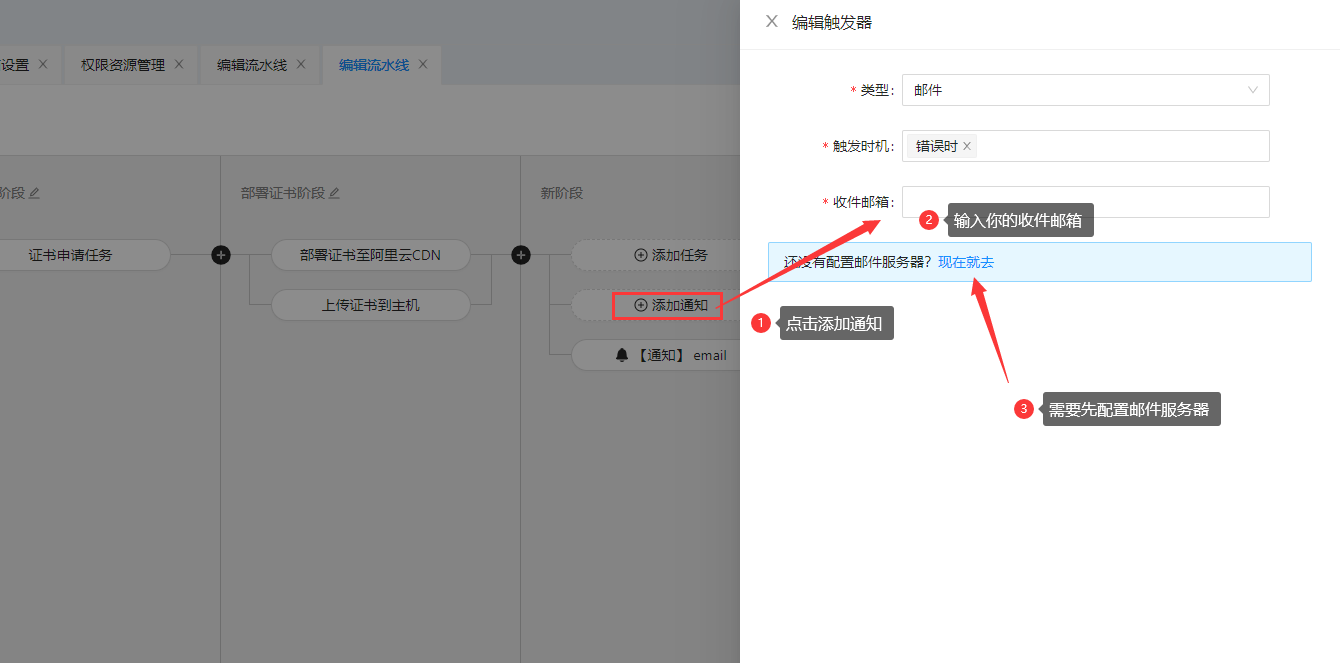
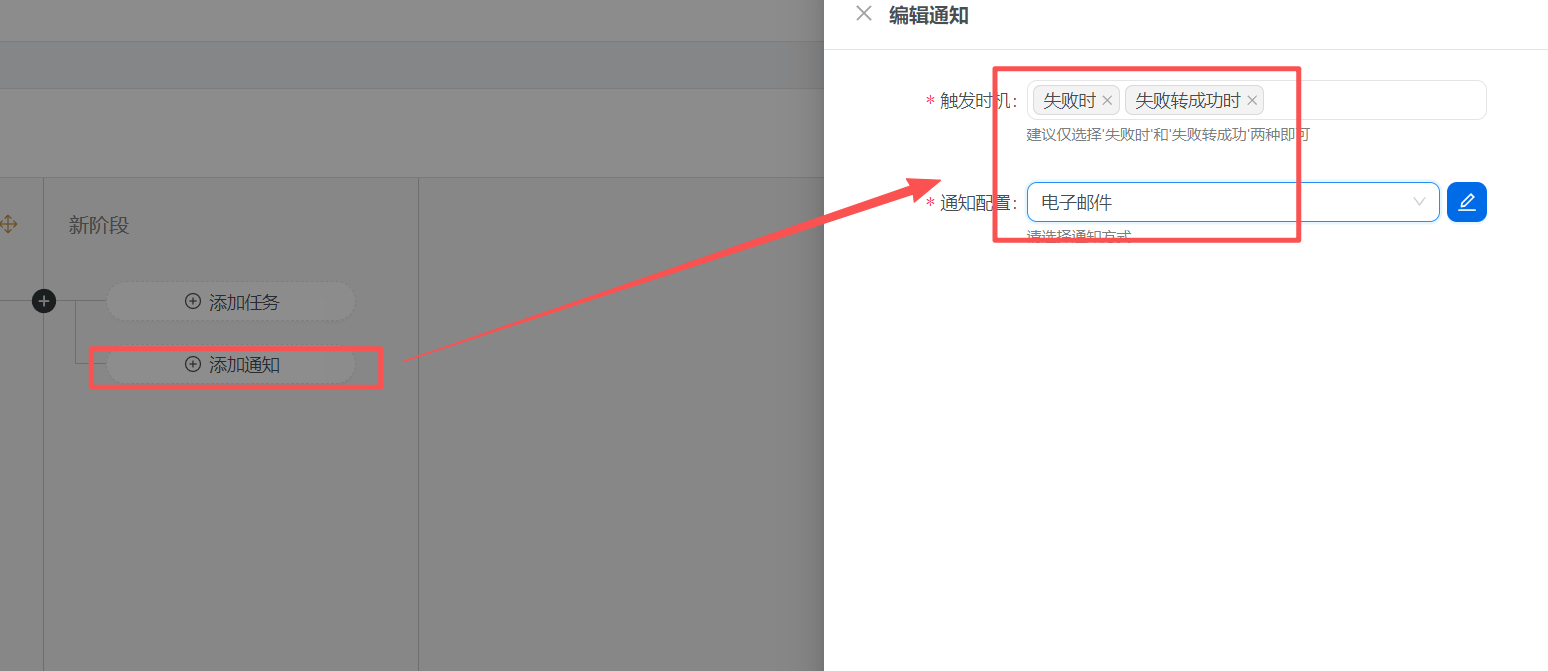
docs: 优化教程

diff --git a/packages/ui/certd-client/src/locales/langs/zh-CN/guide.ts b/packages/ui/certd-client/src/locales/langs/zh-CN/guide.ts
@@ -61,10 +61,9 @@ export default {
     description: "自动运行",
     setSchedule: "设置定时执行",
     pipelineSuccessThenSchedule: "流水线测试成功，接下来配置定时触发，以后每天定时执行就不用管了",
-    recommendDailyRun: "推荐配置每天运行一次，在到期前35天才会重新申请新证书并部署，没到期前会自动跳过，不会重复申请。",
+    recommendDailyRun: "推荐配置每天运行一次，默认到期前35天会重新申请新证书并部署，没到期前会自动跳过，不会重复申请。",
     setEmailNotification: "设置邮件通知",
-    suggestErrorAndRecoveryEmails: "建议选择监听'错误时'和'错误转成功'两种即可，在意外失败时可以尽快去排查问题，（基础版需要配置邮件服务器）",
-    basicVersionNeedsMailServer: "（基础版需要配置邮件服务器）",
+    suggestErrorAndRecoveryEmails: "建议选择监听'错误时'和'错误转成功'两种即可，在意外失败时可以尽快去排查问题",
     tutorialEndTitle: "教程结束",
     thanksForWatching: "感谢观看，希望对你有所帮助",
   },

diff --git a/packages/ui/certd-client/src/components/tutorial/tutorial-steps.vue b/packages/ui/certd-client/src/components/tutorial/tutorial-steps.vue
@@ -164,7 +164,7 @@ const steps = ref<Step[]>([
       {
         image: "/static/doc/images/15-1-email.png",
         title: t("guide.scheduleAndEmailTask.setEmailNotification"),
-        descriptions: [t("guide.scheduleAndEmailTask.suggestErrorAndRecoveryEmails"), t("guide.scheduleAndEmailTask.basicVersionNeedsMailServer")],
+        descriptions: [t("guide.scheduleAndEmailTask.suggestErrorAndRecoveryEmails")],
       },
       {
         title: t("guide.scheduleAndEmailTask.tutorialEndTitle"),

diff --git a/packages/ui/certd-client/src/layout/layout-basic.vue b/packages/ui/certd-client/src/layout/layout-basic.vue
@@ -82,7 +82,7 @@ provide("fn:ai.open", openChat);
       <LockScreen :avatar @to-login="handleLogout" />
     </template>
     <template #header-right-0>
-      <div v-if="!settingStore.isComm" class="hover:bg-accent ml-1 mr-2 cursor-pointer rounded-full hidden md:block">
+      <div class="hover:bg-accent ml-1 mr-2 cursor-pointer rounded-full hidden md:block">
         <tutorial-button class="flex-center header-btn" />
       </div>
       <div class="hover:bg-accent ml-1 mr-2 cursor-pointer rounded-full">

diff --git a/packages/ui/certd-client/src/layout/layout-framework.vue b/packages/ui/certd-client/src/layout/layout-framework.vue
@@ -75,7 +75,7 @@
         <div>
           <span v-if="!settingStore.isComm">
             <span>Powered by</span>
-            <a> handsfree.work </a>
+            <a> handfree.work </a>
           </span>
 
           <template v-if="siteInfo.licenseTo">

diff --git a/packages/ui/certd-client/src/locales/langs/en-US/guide.ts b/packages/ui/certd-client/src/locales/langs/en-US/guide.ts
@@ -64,7 +64,6 @@ export default {
     recommendDailyRun: "Recommend configuring to run once daily; new certs requested 35 days before expiry and auto-skipped otherwise",
     setEmailNotification: "Set Email Notifications",
     suggestErrorAndRecoveryEmails: "Suggest listening for 'On Error' and 'Error to Success' to quickly troubleshoot failures (basic version requires mail server setup)",
-    basicVersionNeedsMailServer: "(basic version requires configuring mail server)",
     tutorialEndTitle: "Tutorial End",
     thanksForWatching: "Thank you for watching, hope it helps you",
   },